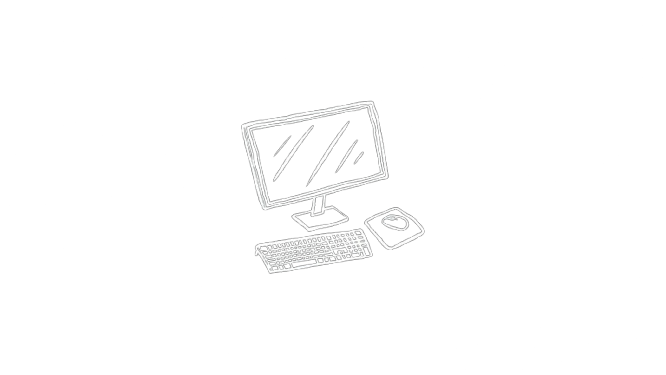
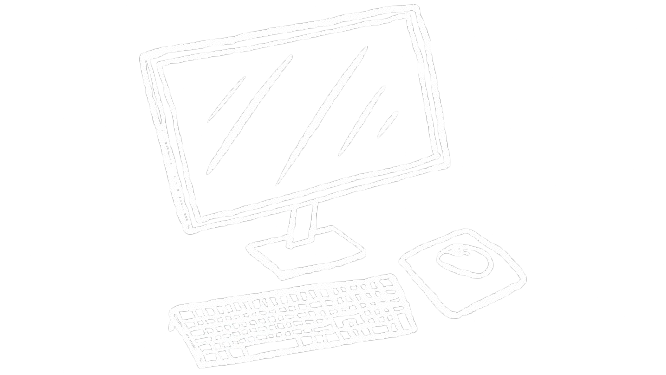
Error de tamaño arreglado.

diff --git a/src/styles.scss b/src/styles.scss
@@ -1,40 +1,17 @@
-
-/* You can add global styles to this file, and also import other style files */
 * {
     margin: 0;
     padding: 0;
 }
 
 body {
-    // background: linear-gradient(to right bottom, #124220, #33e44b);
     background-color: #000000;
-    // background-color: #9effab;
     width: 100vw;
     height: 100vh;
-    // background: #131313;
-    // background: rgb(169, 169, 169);
-    // radial-gradient(#1f1f1f 85%, rgb(53, 53, 53) 85%, rgb(53, 53, 53) 100%);
-    // linear-gradient(to right bottom, rgba(130, 255, 136, 0.7) 0%, #1f1f1f 12%, #1f1f1f 88%, rgba(243, 255, 130, 1) 100%);
     color: white;
     overflow-x: hidden;
     animation-name: body;
     animation-duration: 0.7s;
 }
-
-// body::-webkit-scrollbar {
-//     width: fit-content;
-    
-//     background-color: transparent;
-// }
-
-// body::-webkit-scrollbar-thumb {
-//     background-color: #FFFBE0;
-//     border-radius: 20px;
-//     // margin-right: 5px;
-//     /* roundness of the scroll thumb */
-//     border: 3px solid orange;
-//     /* creates padding around scroll thumb */
-// }
 
 .gabarito-nav {
     font-family: "Gabarito", sans-serif;

diff --git a/src/app/componentes/proyectos/proyectos.component.scss b/src/app/componentes/proyectos/proyectos.component.scss
@@ -112,7 +112,6 @@
     .proyectos {
         display: flex;
         flex-direction: row;
-        // flex-wrap: wrap;
         justify-content: space-evenly;
         align-items: end;
         width: 100vw;
@@ -131,14 +130,6 @@
     .tec {
         width: fit-content;
         height: 5vh;
-        // border-radius: 20px;
-    }
-
-    .proyecto_card {
-        width: 20vw;
-        height: fit-content;
-        border-radius: 25px;
-        // padding: 1rem;
     }
 
     .container {
@@ -163,7 +154,7 @@
         color: #000000;
         background: linear-gradient(to bottom, #ffffff, #000000);
         // background: linear-gradient(to bottom, rgba(130, 255, 136, 0.7), rgba(243, 255, 130, 1), #000000);
-        padding-bottom: 1.5rem;
+        padding: 0.5rem 0 1.5rem 0;
         margin: 1rem;
         border-top-left-radius: 30px;
         border-top-right-radius: 30px;
@@ -191,7 +182,7 @@
         width: 20vw;
     }
 
-     .pi {
+    .pi {
         display: flex;
     }
 

diff --git a/src/app/app.component.scss b/src/app/app.component.scss
@@ -3,15 +3,4 @@ main {
     flex-direction: column;
     align-items: center;
     justify-self: center;
-    // width: 100vw;
 }
-// canvas {
-//     background-image: url('../assets/fondo_oscuro.png');
-//     // opacity: 0.9;
-//     background-size: cover;
-//     position: fixed;
-//     top: 0;
-//     z-index: -5;
-//     width: 100vw;
-//     height: 100vh;
-// }

diff --git a/src/app/componentes/contacto/contacto.component.scss b/src/app/componentes/contacto/contacto.component.scss
@@ -136,7 +136,7 @@
         cursor: pointer;
         border-radius: 30px;
         background: linear-gradient(to right, rgba(130, 255, 136, 0.7), rgba(243, 255, 130, 0.7));
-        padding: 1rem 0;
+        padding: 0.5rem 0;
     }
 
     img {

diff --git a/src/app/componentes/menu/menu.component.scss b/src/app/componentes/menu/menu.component.scss
@@ -65,7 +65,7 @@
     #pc {
         background-image: url('../../../assets/pc.png');
         background-size: cover;
-        width: 50vw;
+        width: 40vw;
         height: 50vh;
     }
 }

diff --git a/src/app/componentes/contacto/contacto.component.html b/src/app/componentes/contacto/contacto.component.html
@@ -1,4 +1,4 @@
-<div class="contactos" *transloco="let t">
+<div class="contactos pagina" *transloco="let t">
     <h1>
         < {{ t('contact') }} />
     </h1>
